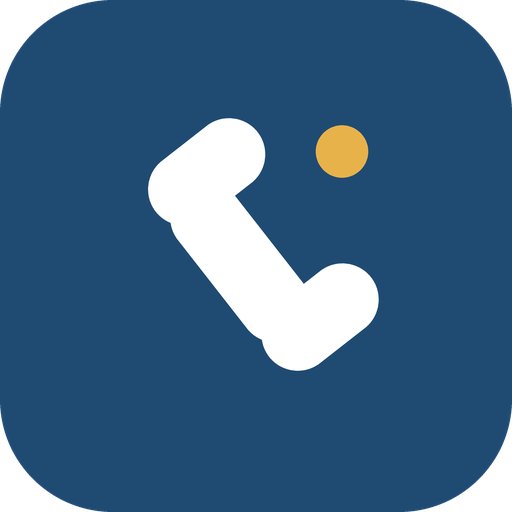
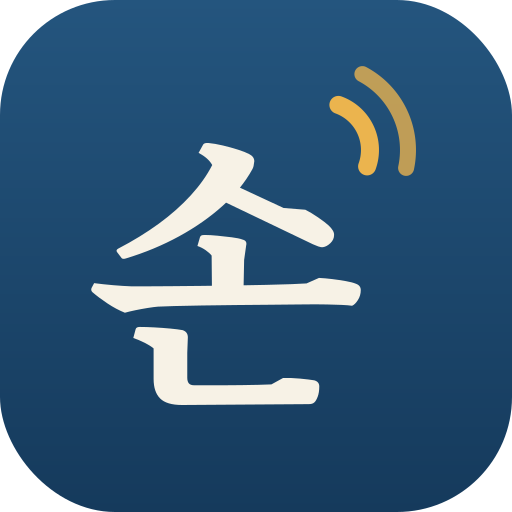
아이콘: 손 한 글자와 소리 두 줄 (0901-cx)
수화기 그림이 작은 크기에서 아령처럼 보여서, 이름의 첫 글자를
그대로 쓰기로 했습니다. 남색 바탕에 크림색 '손', 오른쪽 위에
금색 두 줄로 전화가 나가는 것을 표시합니다.

tools/icon/ 에 다시 뽑는 스크립트를 같이 넣었습니다.

Claude-Session: https://claude.ai/code/session_01L4VMt4pY6RED8EPmvtvf1o

diff --git a/meonjeon/index.html b/meonjeon/index.html
@@ -127,7 +127,7 @@ function merge3(base, mine, theirs) {
 const gate = document.getElementById('gate');
 const bar  = document.getElementById('bar');
 
-const GATE_BUILD = '0901-cw';
+const GATE_BUILD = '0901-cx';
 const show = (html) => {
   gate.innerHTML = html +
     `<p style="margin-top:26px;font-size:10.5px;color:#A0A096;font-family:'IBM Plex Mono',monospace">BUILD ${GATE_BUILD}</p>`;
@@ -2262,7 +2262,7 @@ function buildRecommendations(st) {
 const PROMPT_VERSION = "v7.2";
 /* 새로 올릴 때마다 바꿉니다. 설정 맨 아래에 보이고,
    "새로고침이 됐나"를 폰에서 눈으로 확인하는 유일한 방법입니다 */
-const BUILD = "0901-cw";
+const BUILD = "0901-cx";
 /* ── AI 사용량 상한 ──────────────────────────────
    무료로 쓰시는 동안 비용이 예산을 넘지 않게 하는 장치입니다.
    막는 게 목적이 아니라, 얼마가 나갈지 계산이 되게 하는 게 목적이에요.

diff --git a/meonjeon/demo.html b/meonjeon/demo.html
@@ -2113,7 +2113,7 @@ function buildRecommendations(st) {
 const PROMPT_VERSION = "v7.2";
 /* 새로 올릴 때마다 바꿉니다. 설정 맨 아래에 보이고,
    "새로고침이 됐나"를 폰에서 눈으로 확인하는 유일한 방법입니다 */
-const BUILD = "0901-cw";
+const BUILD = "0901-cx";
 /* ── AI 사용량 상한 ──────────────────────────────
    무료로 쓰시는 동안 비용이 예산을 넘지 않게 하는 장치입니다.
    막는 게 목적이 아니라, 얼마가 나갈지 계산이 되게 하는 게 목적이에요.

diff --git a/meonjeon/tools/icon/mkicon.py b/meonjeon/tools/icon/mkicon.py
@@ -1,0 +1,55 @@
+# -*- coding: utf-8 -*-
+"""손주한통 아이콘 — 손 한 글자와 소리 두 줄.
+
+  이름의 첫 글자를 그대로 씁니다. 폰 홈 화면에서 다른 앱들과 섞여도
+  글자 하나는 40픽셀에서도 읽힙니다 — 수화기 그림은 안 읽혔습니다.
+  오른쪽 위 금색 두 줄이 "전화가 나갑니다" 입니다.
+
+  글자는 Noto Serif KR 700 의 '손' 을 윤곽선으로 떠서 넣었습니다
+  (son_raw.txt). 폰트를 앱이 안 불러도 아이콘은 그대로 나옵니다.
+"""
+import math, cairosvg
+
+NAVY_T, NAVY_B = "#24557E", "#153A5C"
+CREAM, GOLD    = "#F7F2E6", "#EBB44E"
+SON   = open("son_raw.txt").read()
+SON_CX, SON_CY, SON_H = 485.5, 370.5, 903      # 글리프의 가운데와 높이
+
+def arc(cx, cy, r, a1, a2):
+    x1, y1 = cx + r*math.cos(math.radians(a1)), cy + r*math.sin(math.radians(a1))
+    x2, y2 = cx + r*math.cos(math.radians(a2)), cy + r*math.sin(math.radians(a2))
+    return f"M {x1:.1f},{y1:.1f} A {r},{r} 0 0 1 {x2:.1f},{y2:.1f}"
+
+def art(k=1.0):
+    """512 판 한가운데에 놓이는 그림. k 로 크기만 줄입니다(마스커블용)."""
+    s = 262 * k / SON_H
+    ax, ay, r1, r2 = 256 + 66*k, 256 - 106*k, 48*k, 86*k
+    return (
+      f'<g transform="translate({256 - 30*k} {256 + 18*k}) scale({s:.5f} {-s:.5f}) '
+      f'translate({-SON_CX} {-SON_CY})"><path d="{SON}" fill="{CREAM}"/></g>'
+      f'<g fill="none" stroke="{GOLD}" stroke-linecap="round" transform="translate({ax} {ay})">'
+      f'<path d="{arc(0,0,r1,-70,20)}" stroke-width="{18*k:.1f}"/>'
+      f'<path d="{arc(0,0,r2,-62,12)}" stroke-width="{16*k:.1f}" opacity=".78"/></g>'
+    )
+
+def svg(k, radius):
+    return (
+      f'<svg xmlns="http://www.w3.org/2000/svg" viewBox="0 0 512 512" width="512" height="512">'
+      f'<defs><linearGradient id="g" x1="0" y1="0" x2="0" y2="1">'
+      f'<stop offset="0" stop-color="{NAVY_T}"/><stop offset="1" stop-color="{NAVY_B}"/>'
+      f'</linearGradient></defs>'
+      f'<rect width="512" height="512" rx="{radius}" fill="url(#g)"/>{art(k)}</svg>'
+    )
+
+#  이름                     크기줄임  모서리  픽셀
+JOBS = [
+    ("icon-512.png",           1.00,   115,  512),   # 안드로이드 any
+    ("icon-192.png",           1.00,   115,  192),
+    ("icon-512-maskable.png",  0.66,     0,  512),   # 가장자리가 잘려도 되게
+    ("apple-touch-icon.png",   1.00,     0,  180),   # iOS 가 알아서 둥글립니다
+]
+if __name__ == "__main__":
+    for name, k, rad, px in JOBS:
+        cairosvg.svg2png(bytestring=svg(k, rad).encode(), write_to=name,
+                         output_width=px, output_height=px)
+        print(name, px)

diff --git a/meonjeon/tools/icon/README.md b/meonjeon/tools/icon/README.md
@@ -1,0 +1,11 @@
+# 아이콘 다시 뽑기
+
+```
+pip install cairosvg fonttools brotli
+cd tools/icon && python3 mkicon.py
+mv *.png ../../
+```
+
+`son_raw.txt` 는 Noto Serif KR 700 의 '손' 글리프를 윤곽선으로 떠둔 것입니다
+(Google Fonts, SIL Open Font License 1.1). 글자를 바꾸려면 폰트를 받아
+`fontTools` 로 다시 뜨면 됩니다 — `mkicon.py` 머리말에 적어뒀습니다.
